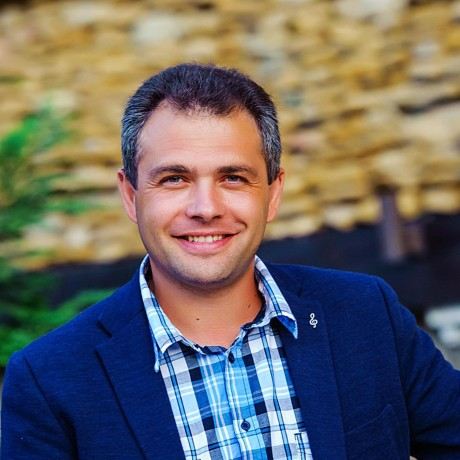
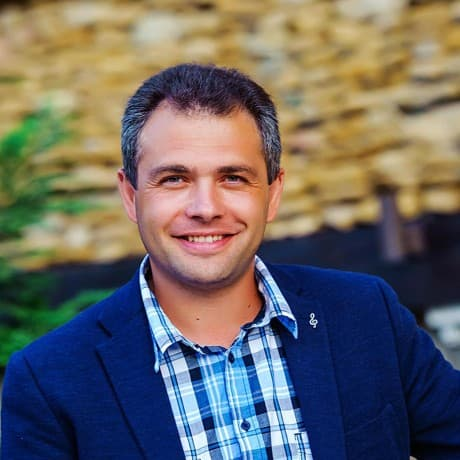
fix

diff --git a/src/partials/footer.html b/src/partials/footer.html
@@ -38,7 +38,7 @@
                    
                     
                     <div class="team__foto-thumb">
-                        <img src="./images/team/nikitalan.jpg" alt="nikita" class="team__foto-img">
+                        <img src="./images/team/nikitalan.jpg" alt="nikita" class="team__foto-img" width="250" height="200">
                     </div>
                 
                 
@@ -63,7 +63,7 @@
                    
                     
                     <div class="team__foto-thumb">
-                        <img src="./images/team/MelnychenkoJenny.jpg" alt="jenny"  class="team__foto-img">
+                        <img src="./images/team/MelnychenkoJenny.jpg" alt="jenny"  class="team__foto-img" width="250" height="200">
                     </div>
                
                 
@@ -88,7 +88,7 @@
                    
                     
                     <div class="team__foto-thumb">
-                        <img src="./images/team/Kostiantyn Koshyk.jpg" alt="K-Basket"  class="team__foto-img">
+                        <img src="./images/team/Kostiantyn Koshyk.jpg" alt="K-Basket"  class="team__foto-img" width="250" height="200">
                     </div>
                 
                 
@@ -113,7 +113,7 @@
                    
                     
                     <div class="team__foto-thumb">
-                        <img src="./images/team/IrynaNeher.jpg" alt="ira" class="team__foto-img">
+                        <img src="./images/team/IrynaNeher.jpg" alt="ira" class="team__foto-img" width="250" height="200">
                     </div>
                 
                 
@@ -139,7 +139,7 @@
                    
                     
                     <div class="team__foto-thumb">
-                        <img src="./images/team/stoletof.jpg" alt="stoletof"  class="team__foto-img">
+                        <img src="./images/team/stoletof.jpg" alt="stoletof"  class="team__foto-img" width="250" height="200">
                     </div>
                 
                 
@@ -167,7 +167,7 @@
                    
                     
                     <div class="team__foto-thumb">
-                        <img src="./images/team/ishchenko.jpg" alt="jula"  class="team__foto-img">
+                        <img src="./images/team/ishchenko.jpg" alt="jula"  class="team__foto-img" width="250" height="200">
                     </div>
                 
                 
@@ -192,7 +192,7 @@
                    
                     
                     <div class="team__foto-thumb">
-                        <img src="./images/team/oleksij.jpg" alt="Oleksii" class="team__foto-img">
+                        <img src="./images/team/oleksij.jpg" alt="Oleksii" class="team__foto-img" width="250" height="200">
                     </div>
               
                 
@@ -215,7 +215,7 @@
             <li class="team__item">
                 <div class="team__wrapper">
                     <div class="team__foto-thumb">
-                        <img src="./images/team/OlgaB.jpg" alt="Olga"  class="team__foto-img">
+                        <img src="./images/team/OlgaB.jpg" alt="Olga"  class="team__foto-img" width="250" height="200">
                     </div>
                
                 <div class="team__student-card">
@@ -239,7 +239,7 @@
                    
                     
                     <div class="team__foto-thumb">
-                        <img src="./images/gallery-library/empty-320.png" alt="Hanna"  class="team__foto-img">
+                        <img src="./images/gallery-library/empty-320.png" alt="Hanna"  class="team__foto-img" width="250" height="200">
                     </div>
                 
                 
@@ -264,7 +264,7 @@
                    
                     
                     <div class="team__foto-thumb">
-                        <img src="./images/gallery-library/empty-320.png" alt="artem"  class="team__foto-img">
+                        <img src="./images/gallery-library/empty-320.png" alt="artem"  class="team__foto-img" width="250" height="200">
                     </div>
               
                 
@@ -289,7 +289,7 @@
                    
                     
                     <div class="team__foto-thumb">
-                        <img src="./images/gallery-library/empty-320.png" alt="zakhar"  class="team__foto-img">
+                        <img src="./images/gallery-library/empty-320.png" alt="zakhar"  class="team__foto-img" width="250" height="200">
                     </div>
               
                 

diff --git a/src/js/placeholder-animation.js b/src/js/placeholder-animation.js
@@ -1,0 +1,41 @@
+const text = [
+'Movie search',
+'Avatar: The Way of Water',
+'Movie search',
+'Evil Dead Rise',
+'M3GAN',
+  ];
+  
+   let line = 0;
+    let count = 0;
+    let result = '';
+    function typeLine() {
+      let interval = setTimeout(
+        () => {
+          result += text[line][count]
+          document.querySelector('.form-input').placeholder =result;
+  
+  
+        count++;
+        if (count >= text[line].length) {
+          count = 0;
+          line++;
+          result = '';
+          if (line == text.length) {
+            clearTimeout(interval);
+            document.querySelector('.form-input').placeholder =result;
+            line = 0;
+            count = 0;
+            result = '';
+            typeLine();
+            return true;
+          }
+        }
+        typeLine();
+      }, 200)
+    }
+    typeLine();
+  
+//   function getRandomInt(max) {
+//     return Math.floor(Math.random() * Math.floor(max));
+//   }

diff --git a/src/sass/components/_header-home.scss b/src/sass/components/_header-home.scss
@@ -199,10 +199,31 @@
 
   & ::placeholder {
     color: var(--color-black);
+  //   animation-name: typing-animation;
+  // animation-duration: 2s;
+  // animation-timing-function: steps(20, end);
   }
 
   @include tablet {
     order: 0;
+  }
+}
+
+.p {
+  padding: 50px;
+  color: white;
+
+  animation-name: typing-animation;
+animation-duration: 2s;
+animation-timing-function: steps(20, end);
+}
+
+@keyframes typing-animation {
+  from {
+    width: 0;
+  }
+  to {
+    width: 100%;
   }
 }
 

diff --git a/src/js/querySearchScript.js b/src/js/querySearchScript.js
@@ -21,6 +21,7 @@ const fetchMovie = async (page) => {
     console.error(error);
     Notiflix.Notify.failure(error.message);
   }
+
 };
 
 const handleSearchFormSubmit = async event => {
@@ -47,7 +48,6 @@ const handleSearchFormSubmit = async event => {
         'Sorry, there are no movies matching your search query. Please try again.'
       );
       textOoops.classList.remove('visually-hidden')
-
       return;
     }
 

diff --git a/src/sass/index.scss b/src/sass/index.scss
@@ -11,7 +11,6 @@
 @import "./components/gallery-home";
 @import "./components/pagination";
 @import "./components/gallery-library";
-@import "./components/loader";
 @import "./components/modal";
 @import "./components/footer";
 @import "./components/btnUp";

diff --git a/src/index.html b/src/index.html
@@ -35,7 +35,6 @@
     </footer>
 
     <include src="./partials/modal.html"></include>
-    <include src="./partials/loader.html"></include>
     <include src="./partials/btnUp.html"></include>
 
     <script type="module" src="./index.js"></script>

diff --git a/src/library.html b/src/library.html
@@ -35,7 +35,6 @@
     </footer>
 
     <include src="./partials/modal.html"></include>
-    <include src="./partials/loader.html"></include>
     <script type="module" src="./library.js"></script>
   </body>
 </html>

diff --git a/src/sass/components/_footer.scss b/src/sass/components/_footer.scss
@@ -241,7 +241,7 @@ margin-bottom: 15px;
   &:active,
   &:focus {
     scale: 1.03;
-    // box-shadow: inset 1px 1px 2px #babecc, inset -1px -1px 2px #fff;
+
   }
     }
   

diff --git a/src/index.js b/src/index.js
@@ -6,3 +6,4 @@ import './js/ourTeam';
 import './js/pagination';
 import './js/trailer';
 import './js/movie-modal';
+import './js/placeholder-animation'
